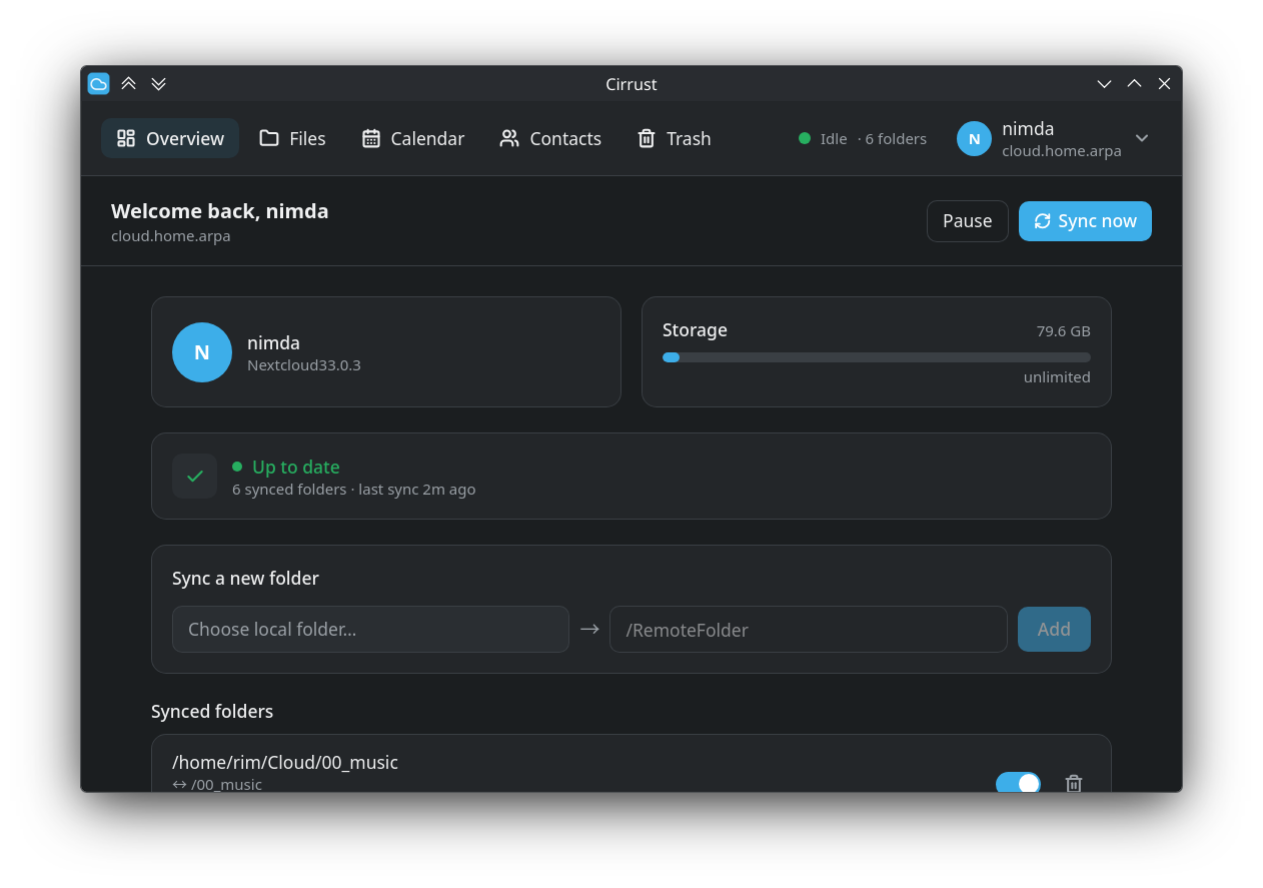
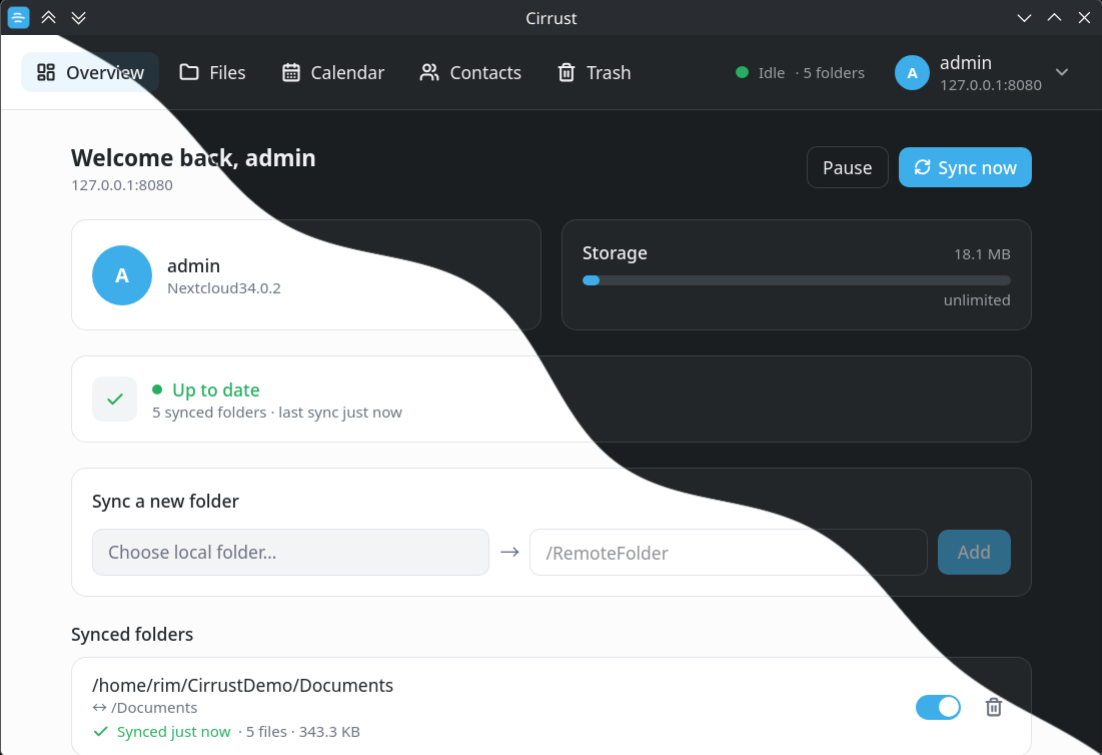
docs: replace the README screenshot with a light/dark split
The previous docs/images/overview.png was captured from a real account: it
showed the username, an internal server hostname and local sync paths. It
is replaced by a capture of a throwaway demo instance seeded with
fictional data, divided by a wave from the top-left to the bottom-right
corner so both themes are visible in one image.

diff --git a/README.md b/README.md
@@ -19,7 +19,7 @@ Plasma, which is the most polished target but not a requirement.
 
 <p align="center">
   <img src="docs/images/overview.png" width="900"
-       alt="The Cirrust Overview view in dark theme: sync status, storage quota and synced folders">
+       alt="The Cirrust Overview view split diagonally — light theme in the lower left, dark theme in the upper right — showing sync status, storage quota and synced folders">
 </p>
 
 ## Features
